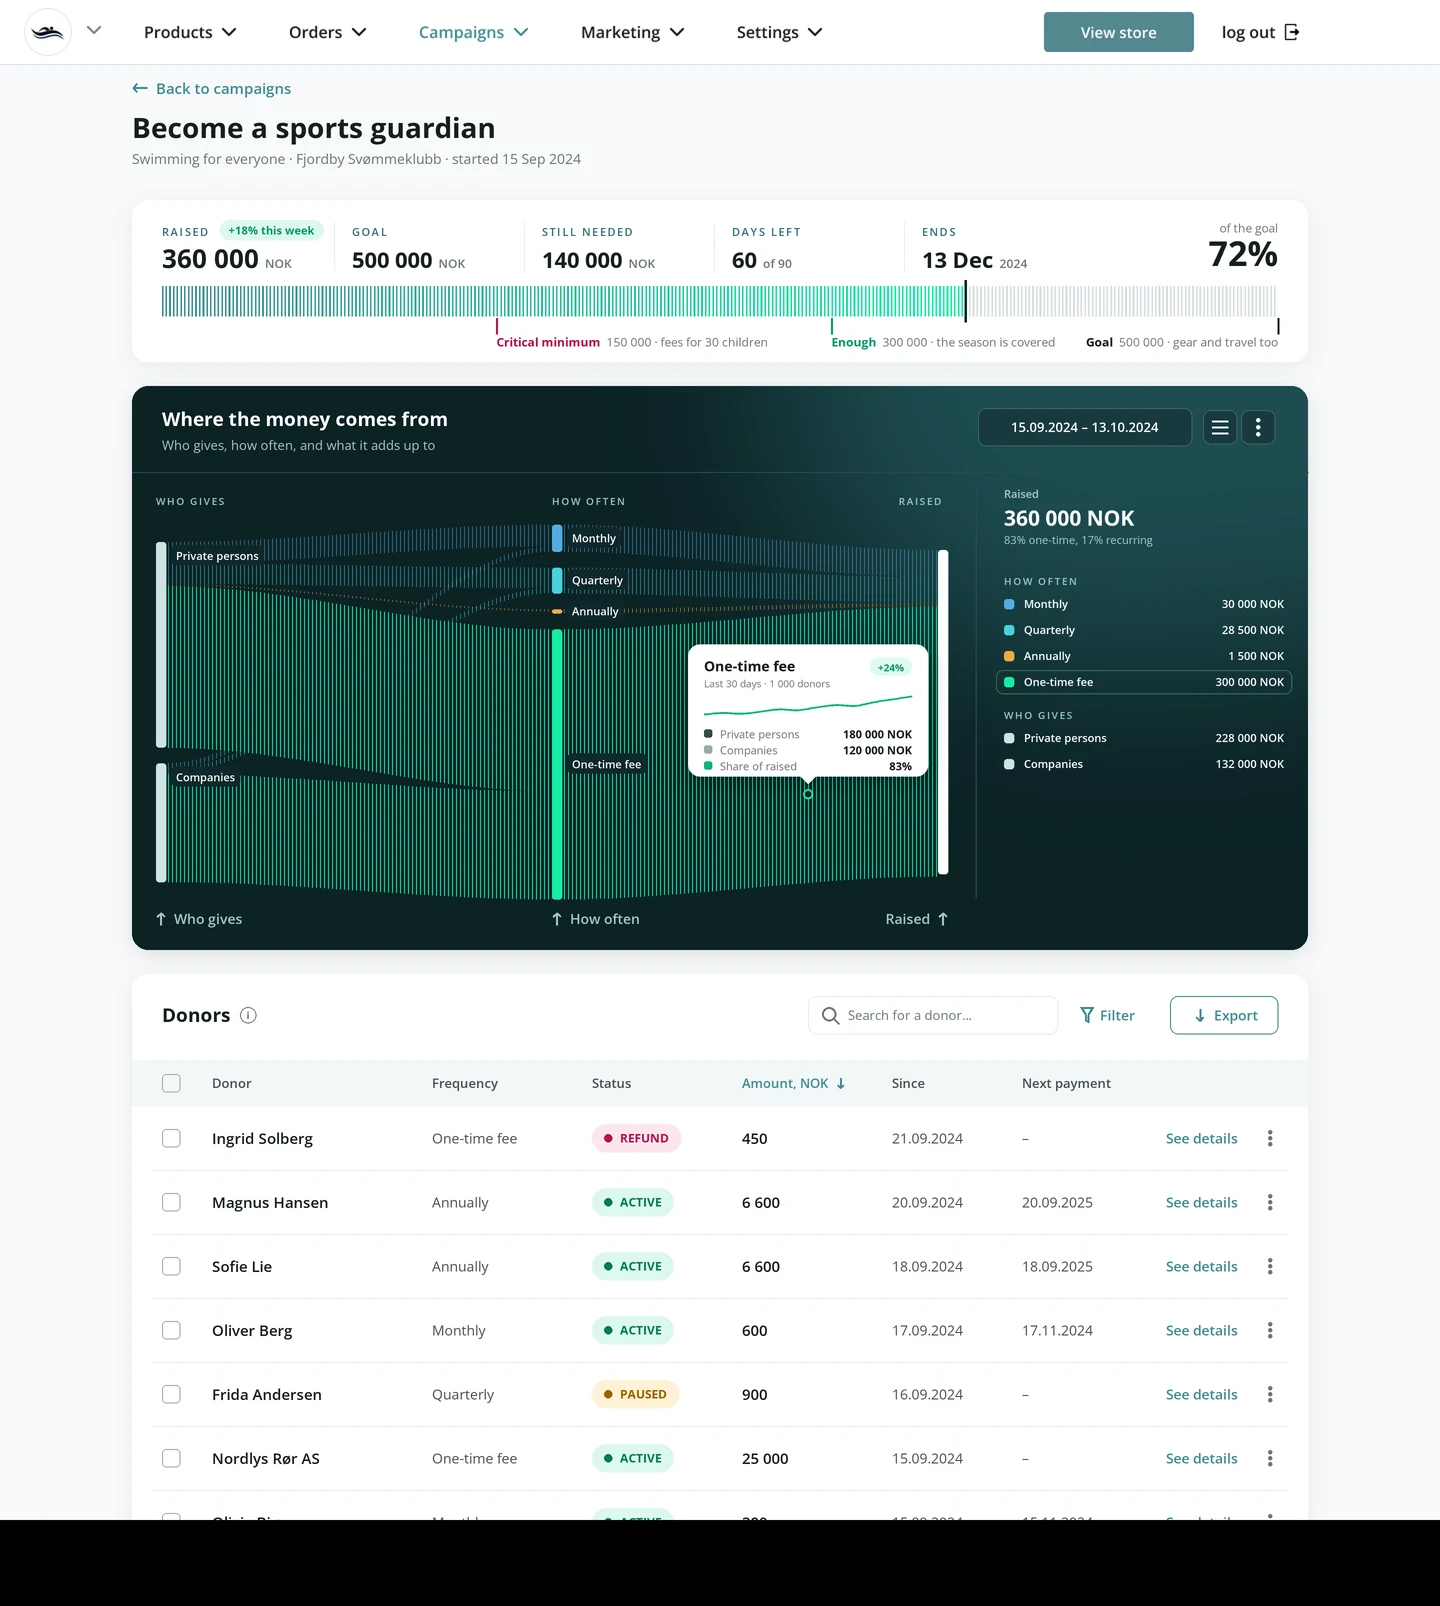
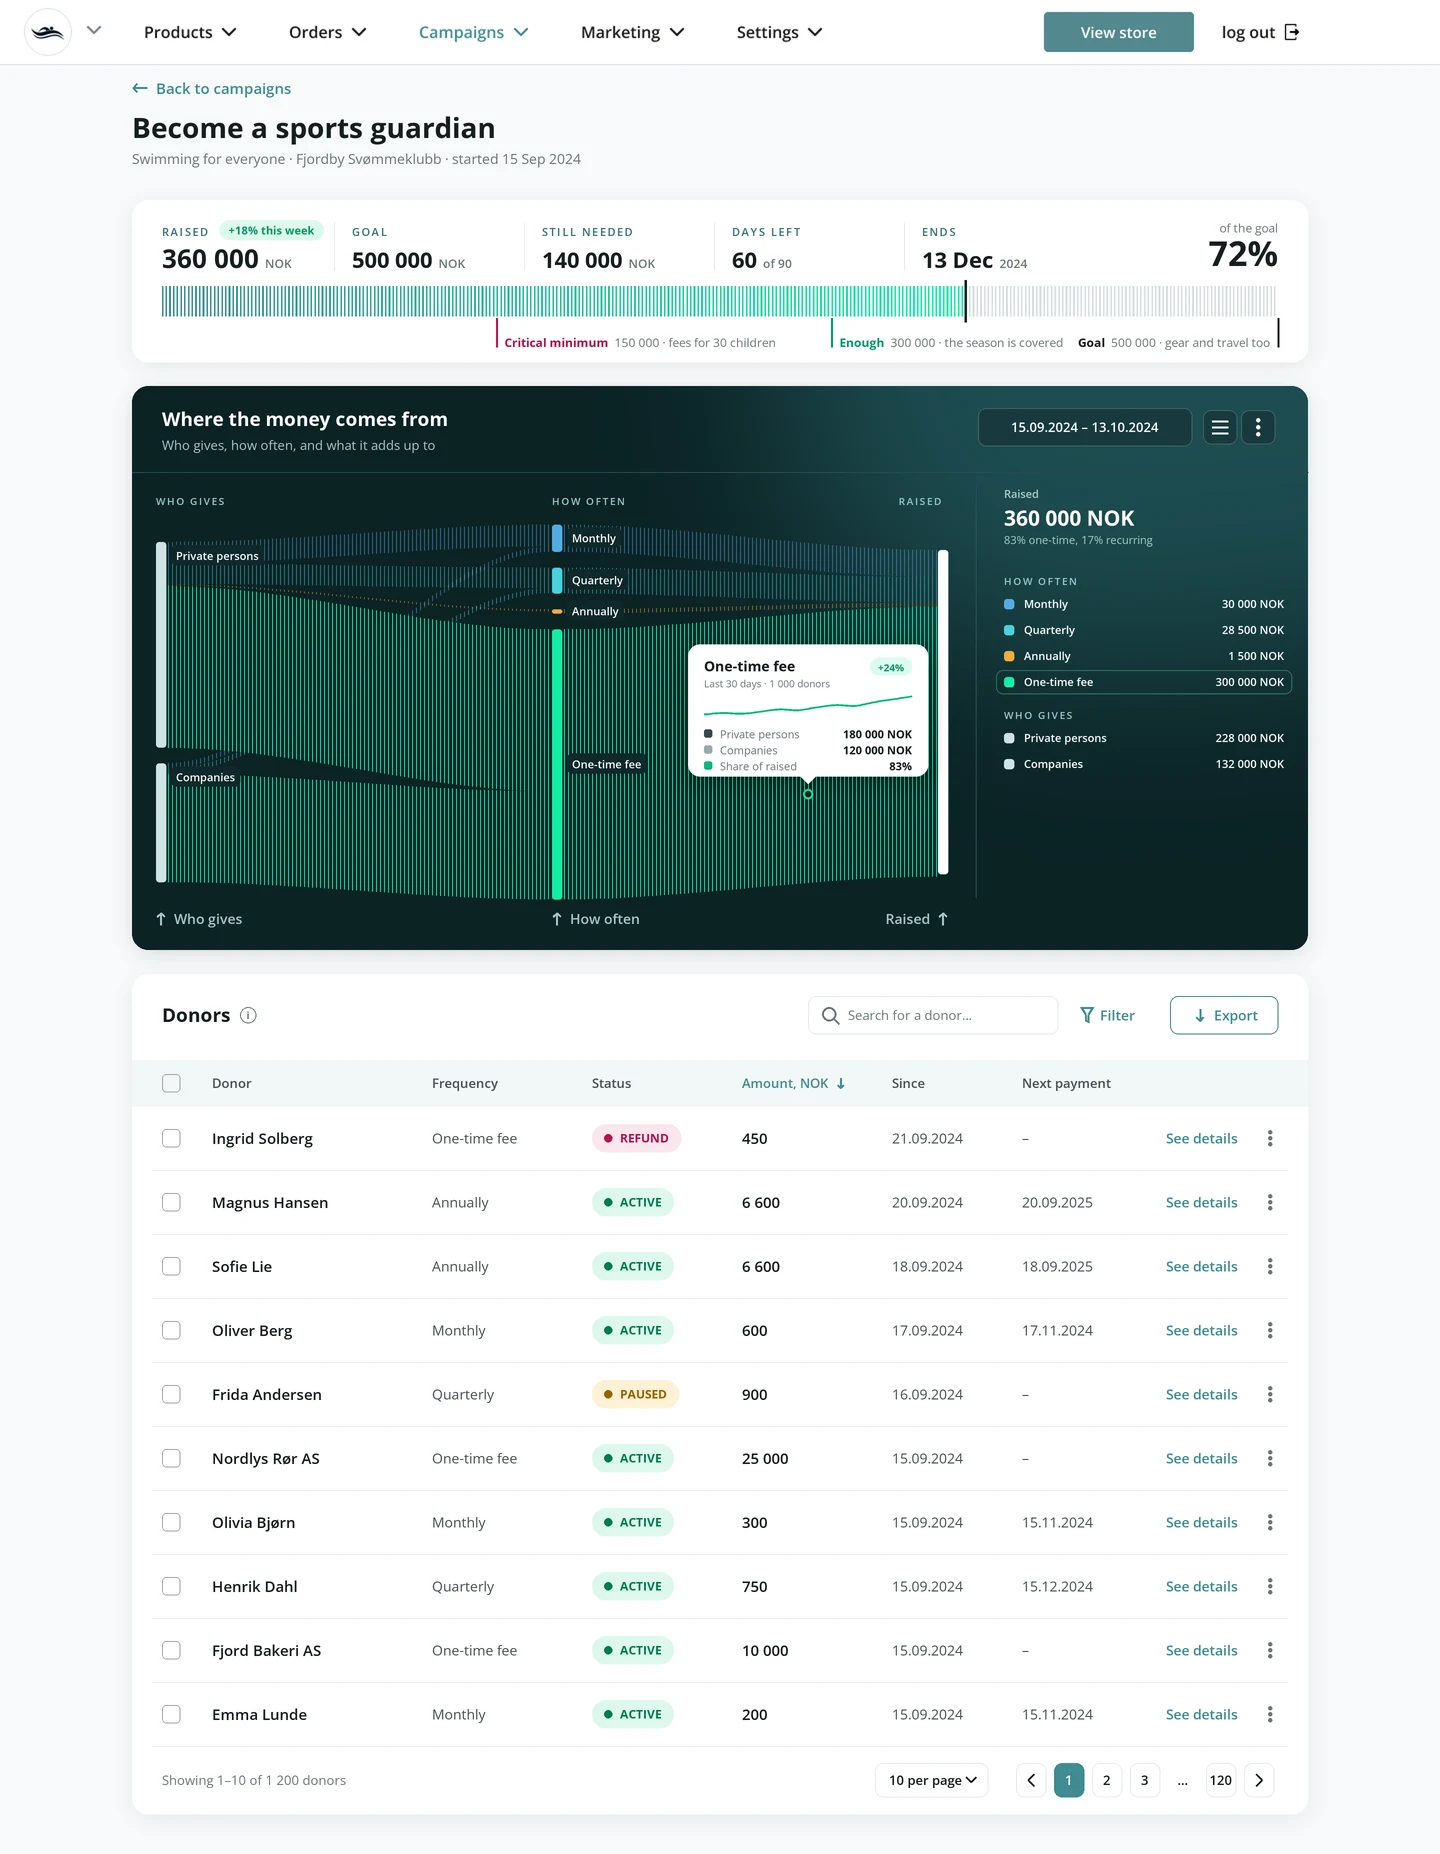
Sport Guardian admin: marks bottom-aligned with their labels, ten donor rows with pagination, no black strip under the table

diff --git a/SportGuardian.html b/SportGuardian.html
@@ -311,7 +311,7 @@ footer .wrap{display:flex;justify-content:space-between;gap:16px;flex-wrap:wrap}
 
 <figure class="c5-12 rv" style="--d:.1s"><div class="panel"><img class="el c" src="assets/work/sport-guardian/el-create-donations.webp" alt="From the campaign builder: Accept donations from private persons and companies, and Select donation frequency, from monthly to a one-time fee, each with a short hint." width="1200" height="1183" loading="lazy"></div><figcaption>For the club: who can give and how often, with a hint under every choice.</figcaption></figure>
 
-<figure class="c1-12 rv scroll"><div class="panel"><div class="browser" style="max-width:1000px"><div class="bar" aria-hidden="true"><i></i><i></i><i></i><span>admin.supporter.no</span></div><div class="vp fx" style="--to:-45.8%;--t:24s;--hd:4.514%"><img class="hd" src="assets/work/sport-guardian/screen-statistik-head.webp" alt="" width="1440" height="65" loading="lazy"><img src="assets/work/sport-guardian/screen-statistik-body.webp" alt="The campaign dashboard in the admin panel: the title Become a sports guardian; a progress card with 360 000 NOK raised, a 500 000 NOK goal, 140 000 still needed, 60 days left and the end date, a full-width bar at 72% with marks for the critical minimum, enough and the goal; a dark Sankey card of where the money comes from with a tooltip and a legend; and the donor table with search, Filter and Export." width="1440" height="1541" loading="lazy"></div></div></div><figcaption style="max-width:64ch">The campaign dashboard: the goal and the days left at the top, where the money comes from, and every donor with refunds and pauses in one table.</figcaption></figure>
+<figure class="c1-12 rv scroll"><div class="panel"><div class="browser" style="max-width:1000px"><div class="bar" aria-hidden="true"><i></i><i></i><i></i><span>admin.supporter.no</span></div><div class="vp fx" style="--to:-53.3%;--t:30s;--hd:4.514%"><img class="hd" src="assets/work/sport-guardian/screen-statistik-head.webp" alt="" width="1440" height="65" loading="lazy"><img src="assets/work/sport-guardian/screen-statistik-body.webp" alt="The campaign dashboard in the admin panel: the title Become a sports guardian; a progress card with 360 000 NOK raised, a 500 000 NOK goal, 140 000 still needed, 60 days left and the end date, a full-width bar at 72% with marks for the critical minimum, enough and the goal; a dark Sankey card of where the money comes from with a tooltip and a legend; and the donor table with search, Filter and Export, ten rows and pagination." width="1440" height="1789" loading="lazy"></div></div></div><figcaption style="max-width:64ch">The campaign dashboard: the goal and the days left at the top, where the money comes from, and every donor with refunds and pauses in one table.</figcaption></figure>
       <div class="c1-12 rv charts">
         <div class="about"><h3>What this chart is</h3><p><b>A Sankey diagram.</b> Each band is as wide as the amount it carries, so you can follow the money from who gives, through how often they give, to the total.</p><p><b>When to use it:</b> when a whole splits and merges across stages and the question is where the volume goes, as with a budget, the money in a campaign, or the paths people take through a product. With more than about a dozen nodes, or when exact values must be compared, a table or a bar chart reads better.</p></div>
         <div><h3>Other charts, and when to use them</h3><ul class="ctypes"><li><svg viewBox="0 0 56 32" aria-hidden="true" focusable="false"><rect x="4" y="16" width="8" height="14" rx="1" fill="#CFE3E4"/><rect x="16" y="6" width="8" height="24" rx="1" fill="#418B91"/><rect x="28" y="12" width="8" height="18" rx="1" fill="#CFE3E4"/><rect x="40" y="20" width="8" height="10" rx="1" fill="#CFE3E4"/></svg><b>Bar chart</b><span>Compares amounts across categories, such as money raised per club or per campaign.</span></li><li><svg viewBox="0 0 56 32" aria-hidden="true" focusable="false"><path d="M3 26 L14 20 L24 22 L34 11 L44 13 L53 4" fill="none" stroke="#418B91" stroke-width="2" stroke-linejoin="round" stroke-linecap="round"/></svg><b>Line chart</b><span>Shows a trend over time, such as money raised day by day.</span></li><li><svg viewBox="0 0 56 32" aria-hidden="true" focusable="false"><path d="M3 26 L14 19 L24 21 L34 11 L44 12 L53 5 V30 H3 Z" fill="#CFE3E4"/><path d="M3 26 L14 19 L24 21 L34 11 L44 12 L53 5" fill="none" stroke="#418B91" stroke-width="2" stroke-linejoin="round"/></svg><b>Area chart</b><span>A line chart with the volume filled in: for a total that builds up over time.</span></li><li><svg viewBox="0 0 56 32" aria-hidden="true" focusable="false"><rect x="4" y="14" width="10" height="16" fill="#418B91"/><rect x="4" y="8" width="10" height="6" fill="#CFE3E4"/><rect x="22" y="10" width="10" height="20" fill="#418B91"/><rect x="22" y="3" width="10" height="7" fill="#CFE3E4"/><rect x="40" y="18" width="10" height="12" fill="#418B91"/><rect x="40" y="12" width="10" height="6" fill="#CFE3E4"/></svg><b>Stacked bar chart</b><span>Parts of a whole, compared across groups, such as one-time and recurring gifts per campaign.</span></li><li><svg viewBox="0 0 56 32" aria-hidden="true" focusable="false"><polygon points="28.0,2.0 40.1,9.0 40.1,23.0 28.0,30.0 15.9,23.0 15.9,9.0" fill="none" stroke="#CFE3E4" stroke-width="1"/><polygon points="28.0,7.0 35.8,11.5 35.8,20.5 28.0,25.0 20.2,20.5 20.2,11.5" fill="none" stroke="#CFE3E4" stroke-width="1"/><polygon points="28.0,11.5 31.9,13.8 31.9,18.2 28.0,20.5 24.1,18.2 24.1,13.8" fill="none" stroke="#CFE3E4" stroke-width="1"/><line x1="28" y1="16" x2="28.0" y2="2.0" stroke="#CFE3E4" stroke-width="1"/><line x1="28" y1="16" x2="40.1" y2="9.0" stroke="#CFE3E4" stroke-width="1"/><line x1="28" y1="16" x2="40.1" y2="23.0" stroke="#CFE3E4" stroke-width="1"/><line x1="28" y1="16" x2="28.0" y2="30.0" stroke="#CFE3E4" stroke-width="1"/><line x1="28" y1="16" x2="15.9" y2="23.0" stroke="#CFE3E4" stroke-width="1"/><line x1="28" y1="16" x2="15.9" y2="9.0" stroke="#CFE3E4" stroke-width="1"/><polygon points="28.0,4.0 34.9,12.0 39.3,22.5 28.0,22.0 19.3,21.0 20.2,11.5" fill="#418B91" fill-opacity=".35" stroke="#418B91" stroke-width="1.6" stroke-linejoin="round"/></svg><b>Radar chart</b><span>Compares several measures of one thing at once, such as how a club does on donors, gifts, reach and repeat giving against the average; reads best with five to eight measures.</span></li><li><svg viewBox="0 0 56 32" aria-hidden="true" focusable="false"><circle cx="28" cy="16" r="11" fill="none" stroke="#CFE3E4" stroke-width="5"/><path d="M28 5 A11 11 0 1 1 18.5 21.5" fill="none" stroke="#418B91" stroke-width="5"/></svg><b>Donut or progress ring</b><span>One share of a whole, or progress to a goal; reads best with one to three parts.</span></li><li><svg viewBox="0 0 56 32" aria-hidden="true" focusable="false"><rect x="4" y="3" width="48" height="6" rx="1" fill="#418B91"/><rect x="11" y="12" width="34" height="6" rx="1" fill="#418B91" fill-opacity=".7"/><rect x="18" y="21" width="20" height="6" rx="1" fill="#418B91" fill-opacity=".45"/></svg><b>Funnel chart</b><span>How many people drop off between the steps of a flow, from the campaign page to the payment.</span></li><li><svg viewBox="0 0 56 32" aria-hidden="true" focusable="false"><rect x="4" y="3" width="9" height="8" rx="1" fill="#418B91" fill-opacity="0.2"/><rect x="14" y="3" width="9" height="8" rx="1" fill="#418B91" fill-opacity="0.5"/><rect x="24" y="3" width="9" height="8" rx="1" fill="#418B91" fill-opacity="0.9"/><rect x="34" y="3" width="9" height="8" rx="1" fill="#418B91" fill-opacity="0.6"/><rect x="44" y="3" width="9" height="8" rx="1" fill="#418B91" fill-opacity="0.3"/><rect x="4" y="12" width="9" height="8" rx="1" fill="#418B91" fill-opacity="0.4"/><rect x="14" y="12" width="9" height="8" rx="1" fill="#418B91" fill-opacity="0.8"/><rect x="24" y="12" width="9" height="8" rx="1" fill="#418B91" fill-opacity="1"/><rect x="34" y="12" width="9" height="8" rx="1" fill="#418B91" fill-opacity="0.7"/><rect x="44" y="12" width="9" height="8" rx="1" fill="#418B91" fill-opacity="0.2"/><rect x="4" y="21" width="9" height="8" rx="1" fill="#418B91" fill-opacity="0.1"/><rect x="14" y="21" width="9" height="8" rx="1" fill="#418B91" fill-opacity="0.3"/><rect x="24" y="21" width="9" height="8" rx="1" fill="#418B91" fill-opacity="0.5"/><rect x="34" y="21" width="9" height="8" rx="1" fill="#418B91" fill-opacity="0.4"/><rect x="44" y="21" width="9" height="8" rx="1" fill="#418B91" fill-opacity="0.15"/></svg><b>Heatmap</b><span>Patterns across two dimensions, such as donations by weekday and hour.</span></li><li><svg viewBox="0 0 56 32" aria-hidden="true" focusable="false"><circle cx="6" cy="26" r="2.6" fill="#418B91"/><circle cx="12" cy="23" r="2.6" fill="#418B91"/><circle cx="16" cy="24" r="2.6" fill="#418B91"/><circle cx="21" cy="19" r="2.6" fill="#418B91"/><circle cx="26" cy="18" r="2.6" fill="#418B91"/><circle cx="30" cy="15" r="2.6" fill="#418B91"/><circle cx="35" cy="14" r="2.6" fill="#418B91"/><circle cx="39" cy="10" r="2.6" fill="#418B91"/><circle cx="44" cy="11" r="2.6" fill="#418B91"/><circle cx="49" cy="6" r="2.6" fill="#418B91"/><circle cx="24" cy="25" r="2.6" fill="#418B91"/><circle cx="42" cy="20" r="2.6" fill="#418B91"/></svg><b>Scatter plot</b><span>How two measures relate, such as the size of a gift and how often the donor gives.</span></li></ul></div>

diff --git a/tools/sport-guardian/admin_dash.py b/tools/sport-guardian/admin_dash.py
@@ -18,7 +18,7 @@ UP, DEEP = (8, 150, 100), (14, 34, 37)
 nok = lambda v: f'{v:,}'.replace(',', ' ')
 
 head = club_logo(Image.open(os.path.join(HERE, 'figma', '1x', 'statistik.png')).convert('RGB')).crop((0, 0, W, 65))
-H = 1520
+H = 2400  # tall enough for every block; the image is cropped to the content below
 im = Image.new('RGB', (W*S, H*S), BG); im.paste(head.resize((W*S, 65*S), Image.LANCZOS), (0, 0))
 d = ImageDraw.Draw(im)
 f = lambda w, n: FONT(w, n*S)
@@ -85,10 +85,10 @@ marks = [(150000, 'Critical minimum', '150 000 · fees for 30 children', CRIT), 
 ly = by+bh+26
 for v, name, sub, mc in marks:
     x = bl+(br-bl)*v/GOAL; end = v == GOAL
-    d.line(P(x, by+bh+2, x, ly-8), fill=mc, width=2*S)
+    d.line(P(x, by+bh+2, x, ly+5), fill=mc, width=2*S)
     nf, sf = f('Bold', 12), f('Regular', 12); nw = d.textlength(name, font=nf)/S; sw = d.textlength('  '+sub, font=sf)/S
-    x0_ = x-nw-sw if end else x
-    text(x0_, ly, name, nf, mc if mc != DEEP else INK, 'lm'); text(x0_+nw, ly, '  '+sub, sf, MUT, 'lm')
+    x0_ = x-8-nw-sw if end else x+8
+    text(x0_, ly+5, name, nf, mc if mc != DEEP else INK, 'ls'); text(x0_+nw, ly+5, '  '+sub, sf, MUT, 'ls')
 
 # 2. the Sankey card: deep teal with a soft glow (as before), the new header with the date range and controls, the
 # chart as it was (its data, tooltip and legend, sankey.flow_body), and the column names along the bottom
@@ -127,8 +127,11 @@ y0 = y1+GAP_B; rows = [('Ingrid Solberg', 'One-time fee', 'Refund', '450', '21.0
                   ('Oliver Berg', 'Monthly', 'Active', '600', '17.09.2024', '17.11.2024'),
                   ('Frida Andersen', 'Quarterly', 'Paused', '900', '16.09.2024', '–'),
                   ('Nordlys Rør AS', 'One-time fee', 'Active', '25 000', '15.09.2024', '–'),
-                  ('Olivia Bjørn', 'Monthly', 'Active', '300', '15.09.2024', '15.11.2024')]
-rh = 64; y1 = y0+86+46+rh*len(rows)+12; card(X0, y0, X1, y1)
+                  ('Olivia Bjørn', 'Monthly', 'Active', '300', '15.09.2024', '15.11.2024'),
+                  ('Henrik Dahl', 'Quarterly', 'Active', '750', '15.09.2024', '15.12.2024'),
+                  ('Fjord Bakeri AS', 'One-time fee', 'Active', '10 000', '15.09.2024', '–'),
+                  ('Emma Lunde', 'Monthly', 'Active', '200', '15.09.2024', '15.11.2024')]
+rh = 64; FOOT = 68; y1 = y0+86+46+rh*len(rows)+FOOT; card(X0, y0, X1, y1)
 text(X0+30, y0+48, 'Donors', f('Bold', 19), INK, 'ls'); d.ellipse(P(X0+108, y0+33, X0+124, y0+49), outline=MUT, width=S); text(X0+116, y0+41, 'i', f('Bold', 10), MUT, 'mm')
 sx = X1-500; d.rounded_rectangle(P(sx, y0+22, sx+250, y0+60), 8*S, outline=LINE, width=S)
 d.ellipse(P(sx+14, y0+33, sx+28, y0+47), outline=MUT, width=2*S); d.line(P(sx+26, y0+45, sx+31, y0+50), fill=MUT, width=2*S)
@@ -157,6 +160,23 @@ for i, (nme, fq, st, amt, since, nxt) in enumerate(rows):
     text(cols[5][0], ym, since, f('Regular', 14), (70, 80, 84), 'lm'); text(cols[6][0], ym, nxt, f('Regular', 14), (70, 80, 84), 'lm')
     text(X1-70, ym, 'See details', f('SemiBold', 14), TEAL, 'rm')
     for dy in (-6, 0, 6): d.ellipse(P(X1-40, ym+dy-2, X1-36, ym+dy+2), fill=MUT)
+# pagination after ten rows
+fy = y1-FOOT/2; d.line(P(X0+20, y1-FOOT, X1-20, y1-FOOT), fill=LINE, width=S)
+text(X0+30, fy, 'Showing 1–10 of 1 200 donors', f('Regular', 13), MUT, 'lm')
+pages = ['‹', '1', '2', '3', '…', '120', '›']; bx = X1-30
+for t in reversed(pages):
+    w = 34; bx -= w
+    on = t == '1'
+    if t not in ('…',): d.rounded_rectangle(P(bx, fy-17, bx+w-4, fy+17), 8*S, fill=TEAL if on else CARD, outline=TEAL if on else LINE, width=S)
+    if t in ('‹', '›'):
+        cx_ = bx+(w-4)/2; dx = -3 if t == '‹' else 3
+        d.line([P(cx_-dx, fy-6), P(cx_+dx, fy), P(cx_-dx, fy+6)], fill=INK, width=2*S)
+    else:
+        text(bx+(w-4)/2, fy, t, f('SemiBold', 13), (255, 255, 255) if on else INK, 'mm')
+    bx -= 4
+pp = '10 per page'; ppw = d.textlength(pp, font=f('SemiBold', 13))/S+40; px_ = bx-24-ppw
+d.rounded_rectangle(P(px_, fy-17, px_+ppw, fy+17), 8*S, outline=LINE, width=S)
+text(px_+14, fy, pp, f('SemiBold', 13), INK, 'lm'); d.line([P(px_+ppw-22, fy-3), P(px_+ppw-17, fy+2), P(px_+ppw-12, fy-3)], fill=INK, width=2*S)
 H2 = y1+40
 im = im.crop((0, 0, W*S, H2*S)).resize((W, H2), Image.LANCZOS)
 im.save(os.path.join(OUT, 'screen-statistik.webp'), quality=88)

diff --git a/sportguardian.md b/sportguardian.md
@@ -65,4 +65,5 @@ The admin screen in the Product section is now drawn from scratch by [`tools/spo
 The separate dark "Where the money comes from" block on the page is removed (her choice: the Sankey lives inside the admin). The "What this chart is" and "Other charts" notes stay, under the dashboard. The dashboard scrolls slowly inside the browser frame. All figures are made up for the mockup.
 Then (2026-10-14, her request): the Sankey card is the dark one again, deep teal with a soft glow, with the chart as it was (its data, the tooltip on One-time fee and the legend with every amount on the right; `sankey.flow_body`), under the new header with the date range and controls, and with Who gives, How often and Raised along the bottom. The tabs are removed. RAISED reads "360 000 of 500 000 NOK" with "+18% this week" beside the label, and no goal line under the bar.
 Then (2026-10-14, her request, after her line-field reference): the campaign title and its line ("Swimming for everyone · Fjordby Svømmeklubb · started 15 Sep 2024") moved out of the card to the top of the page, under Back to campaigns; the card is one full-width progress: on top RAISED 360 000 NOK (+18% this week), GOAL 500 000, STILL NEEDED 140 000, DAYS LEFT 60 of 90, ENDS 13 Dec 2024 and a large 72% of the goal; then a bar of 300 thin vertical lines across the card (raised teal to green, the rest faint grey, a dark mark where the raised amount ends); under it marks with a dot and a label: Critical minimum 150 000 (fees for 30 children), Enough 300 000 (the season is covered), Goal 500 000 (gear and travel too). The thresholds are made up for the mockup.
+Then (2026-10-14, her requests): the marks under the progress bar run down to their labels' baseline, the label beside the line; the donor table shows ten rows and a footer with "Showing 1–10 of 1 200 donors", "10 per page" and pagination (1, 2, 3 … 120). The black strip under the table is gone (the drawing canvas was shorter than the dashboard).
 
